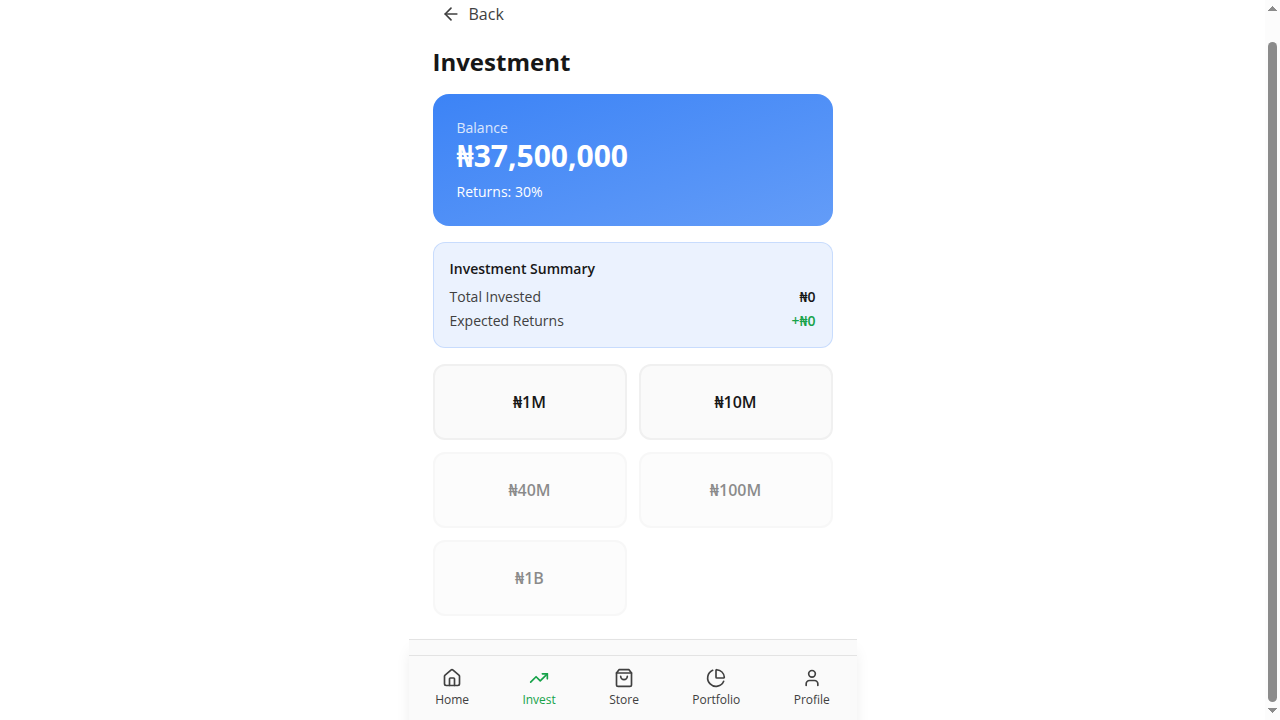
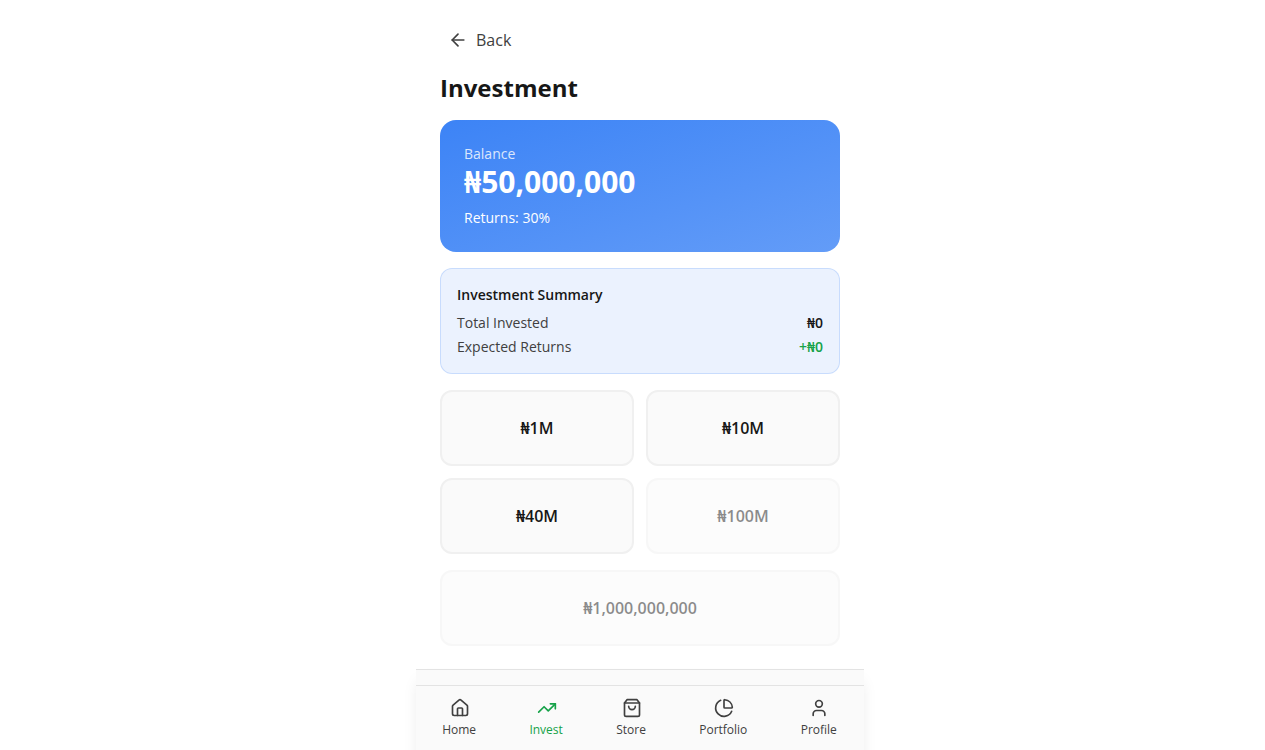
Update investment buttons to show full amounts and make large investment button rectangular
Modify the button generation logic in `client/src/pages/home.tsx` to display the full numerical value for large investments and add a new, full-width rectangular button for the ₦1,000,000,000 investment.

Replit-Commit-Author: Agent
Replit-Commit-Session-Id: 7998bf2f-6b6e-4568-bd56-e61630175395
Replit-Commit-Checkpoint-Type: full_checkpoint
Replit-Commit-Screenshot-Url: https://storage.googleapis.com/screenshot-production-us-central1/8e5dd27c-f810-420b-bd29-0070ee666509/7998bf2f-6b6e-4568-bd56-e61630175395/U8PHVLO

diff --git a/client/src/pages/home.tsx b/client/src/pages/home.tsx
@@ -626,16 +626,9 @@ export default function NaijaWealthSim({ onReturnToWelcome }: NaijaWealthSimProp
             )}
 
             <div className="grid grid-cols-2 gap-3">
-              {[1000000, 10000000, 40000000, 100000000, 1000000000].map(a => {
-                // Format the button label
-                let label = '';
-                if (a >= 1000000000) {
-                  // Billions
-                  label = `${currency}${Math.round(a * conversionRate / (conversionRate === 1 ? 1000000000 : 1000000))}${conversionRate === 1 ? 'B' : 'M'}`;
-                } else {
-                  // Millions/Thousands
-                  label = `${currency}${Math.round(a * conversionRate / (conversionRate === 1 ? 1000000 : 1000))}${conversionRate === 1 ? 'M' : 'K'}`;
-                }
+              {[1000000, 10000000, 40000000, 100000000].map(a => {
+                // Format the button label for smaller amounts
+                const label = `${currency}${Math.round(a * conversionRate / (conversionRate === 1 ? 1000000 : 1000))}${conversionRate === 1 ? 'M' : 'K'}`;
                 
                 return (
                   <button 
@@ -650,6 +643,16 @@ export default function NaijaWealthSim({ onReturnToWelcome }: NaijaWealthSimProp
                 );
               })}
             </div>
+
+            {/* 1 Billion Button - Full Width */}
+            <button 
+              onClick={() => invest(1000000000)} 
+              disabled={returnRate === 0 || 1000000000 > balance || (balance - 1000000000) < 5000000} 
+              className="w-full py-6 font-semibold bg-card border-2 border-card-border rounded-xl disabled:opacity-50 hover-elevate active-elevate-2"
+              data-testid="button-invest-1000000000"
+            >
+              {fmt(1000000000 * conversionRate)}
+            </button>
 
             {/* Investment History */}
             {investments.map(inv => (
